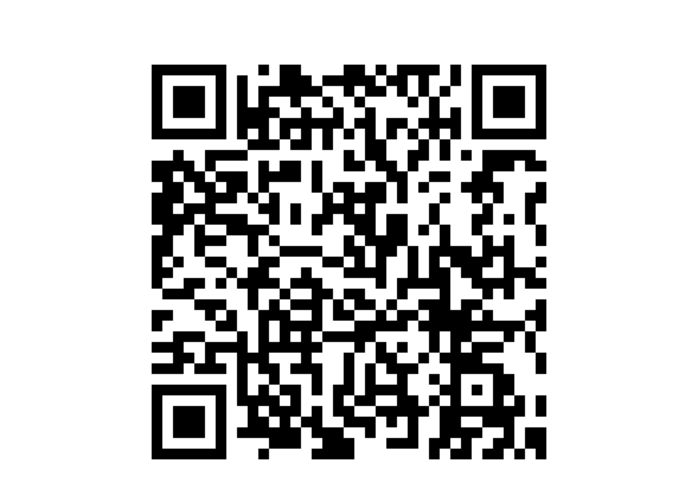
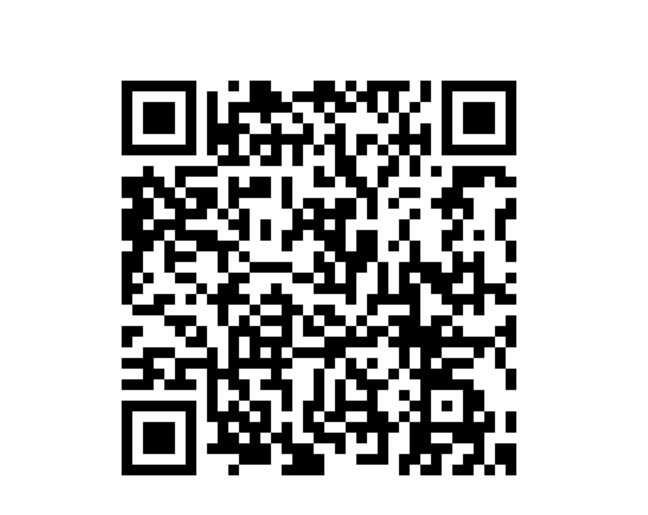
開放 LINE Bot：新增 QR code 與加入連結

diff --git a/README.md b/README.md
@@ -23,11 +23,19 @@
 
 ## 怎麼用
 
-1. 加入 LINE Bot
+1. 掃 QR code 或點連結加入 LINE Bot
 2. 丟一張魯肉飯照片
 3. 看大叔怎麼說
 
-目前 LINE Bot 為邀請制，如有興趣體驗請聯絡作者。
+<p align="center">
+  <a href="https://line.me/R/ti/p/%40940srtss">
+    <img src="assets/line-qr.png" width="160" alt="加入魯肉飯評論器 LINE Bot">
+  </a>
+</p>
+
+<p align="center">
+  <a href="https://line.me/R/ti/p/%40940srtss">點此加入 LINE Bot</a>
+</p>
 
 ---
 
